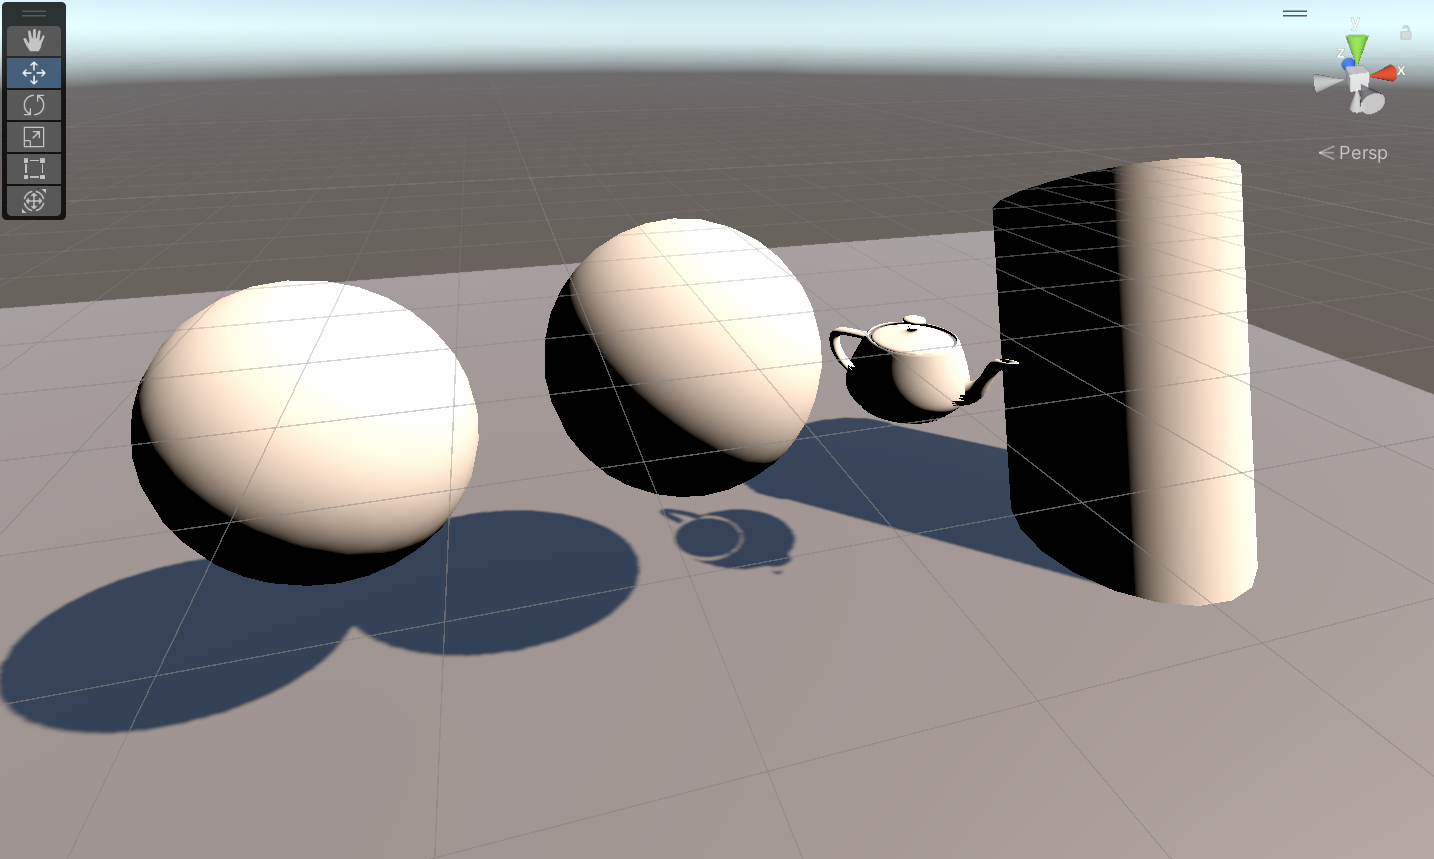
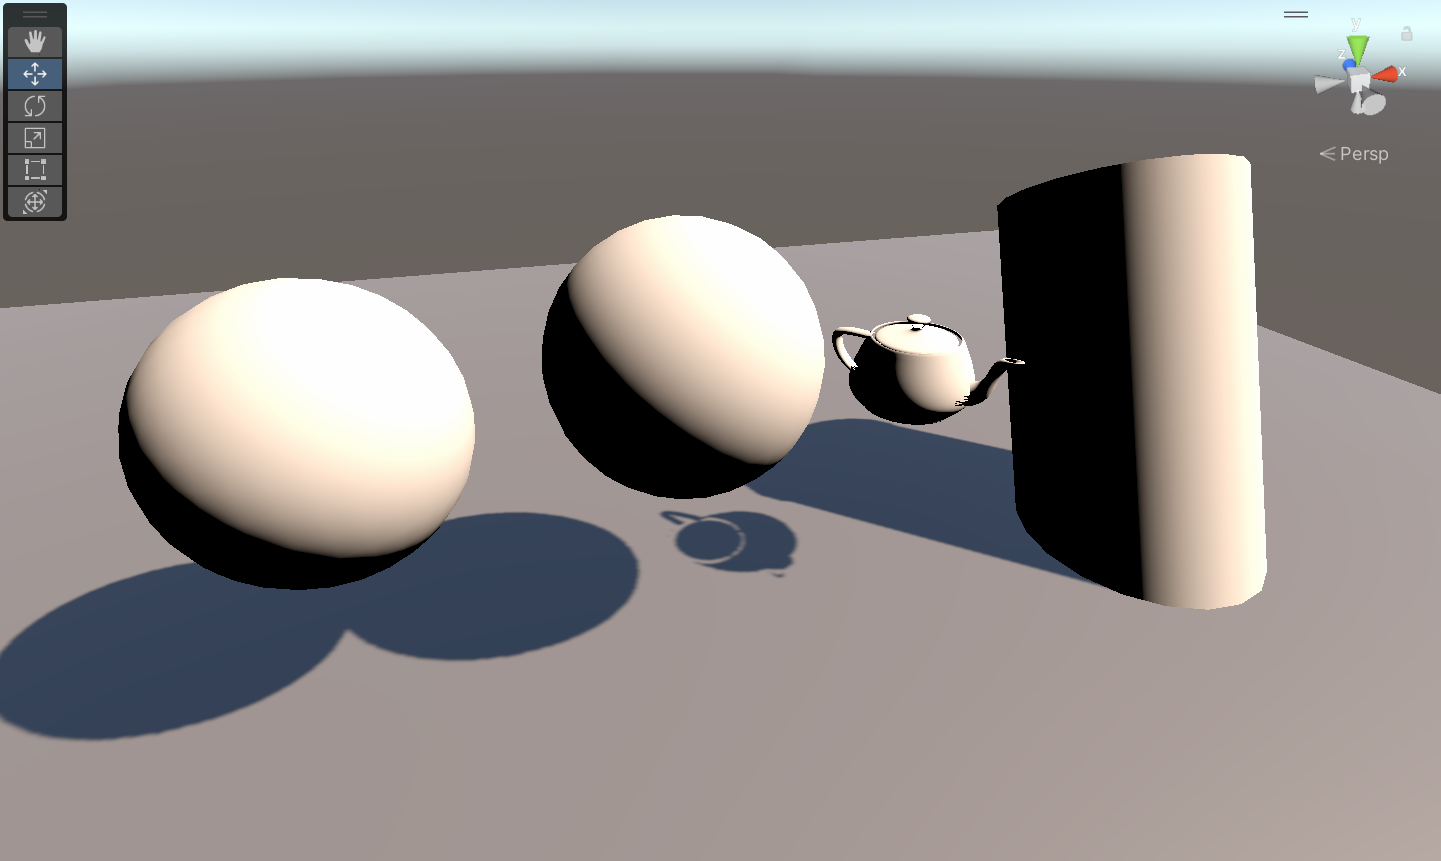
add specular

diff --git a/_posts/2024-05-18-building-a-toon-shader-in-unity.md b/_posts/2024-05-18-building-a-toon-shader-in-unity.md
@@ -60,8 +60,8 @@ Constructing advanced effects involves combining several substeps that are easie
 
 [Wiki: Lambertian Light](https://en.wikipedia.org/wiki/Lambertian_reflectance)
 
-> [!TIP]
-> The Basic Lighting Model: surfaceColor = emissive + ambient + diffuse + specular
+> A quick note! The basic lighting model uses:
+> surfaceColor = emissive + ambient + diffuse + specular
 
 Diffuse lighting is the result of directed light reflecting off a surface equally in all directions. The Lambertian reflectance model provides a simple mathematical equation to calculate diffuse lighting. As a surface is tilted away from perpendicular to the light, its reflection decreases. Given a vector B and its unit direction B', the dot product of any vector A with B' provides the projection of A onto B. Essentially, the dot product allows us to determine the parallelism of two vectors with each other. 
 
@@ -72,12 +72,32 @@ $$ K_{d} = L \cdot N \times C \times I_{L} $$
 Where $L$ is the normalized light direction vector, $N$ is the unit normal vector of the surface, $C$ is the color of the light, and $I_{L}$ is the intensity of the light source. 
 
 #### Intensity in Real Life
-Unfortunately, intensity levels are not constrained between 0 and 1 in real life. In an outdoor environnment, they easily exceed the ideal levels we like to use in Computer Graphics. To solve this problem for photorealistic applications, lighting is often rendered in High Dynamic Range (HDR) or uses Tone Mapping to address the issues of exceeding intensities. In our case, we clamp the result of the dot product $N \dot L$ between 0 and 1. 
+Unfortunately, intensity levels are not constrained between 0 and 1 in real life. In an outdoor environnment, they easily exceed the ideal levels we like to use in Computer Graphics. To solve this problem for photorealistic applications, lighting is often rendered in High Dynamic Range (HDR) or uses Tone Mapping to address the issues of exceeding intensities. In our case, we clamp the result of the dot product $N \cdot L$ between 0 and 1. 
 
 ![Diffuse Lighting Example](/assets/img/shader_blog/diffuse.png)
+> I'll be using some basic shapes, along with the Utah Teapot, to test my shader.
 
 ### Specular Lighting
 [Wiki: Phong model](https://en.wikipedia.org/wiki/Phong_reflection_model)
+
+The Phong model is superceded by the [Blinn-Phong model](https://en.wikipedia.org/wiki/Blinn%E2%80%93Phong_reflection_model), an approximation that proves to be better in many cases, but the basic Phong model is also suitable, and describes surface light as the combination of ambient, diffuse, and specular lighting. **Specular Lighting**, or specular reflection, is the mirror-like reflection of light on a surface. This type of lighting relies on vectors pointing towards the viewer, or in our case, the camera.
+
+In HLSL, this looks like the following: 
+```
+Smoothness = exp2(10 * Smoothness + 1);
+WorldNormal = normalize(WorldNormal);
+WorldView = SafeNormalize(WorldView);
+Out = LightingSpecular(Color, Direction, WorldNormal, WorldView, half4(Specular, 0), Smoothness); 
+```
+Here, the user has defined the specular light in the input `Specular`, and the `LightingSpecular` function executes the following equation: 
+
+$$ specular = C \times K_{s} \times (N \cdot H)^{smoothness}$$
+
+where $C$ is the light color, $N$ is the unit normal vector, and $H$ is the unit halfway vector between the view direction and the light direction. Note that we also clamp the term $N \cdot H$ here. 
+
+![Specular Lighting Example](/assets/img/shader_blog/specular.png)
+
+Now that we have some basic lighting down, let's get to the fun part: toonifying!
 
 --page-break--
 
